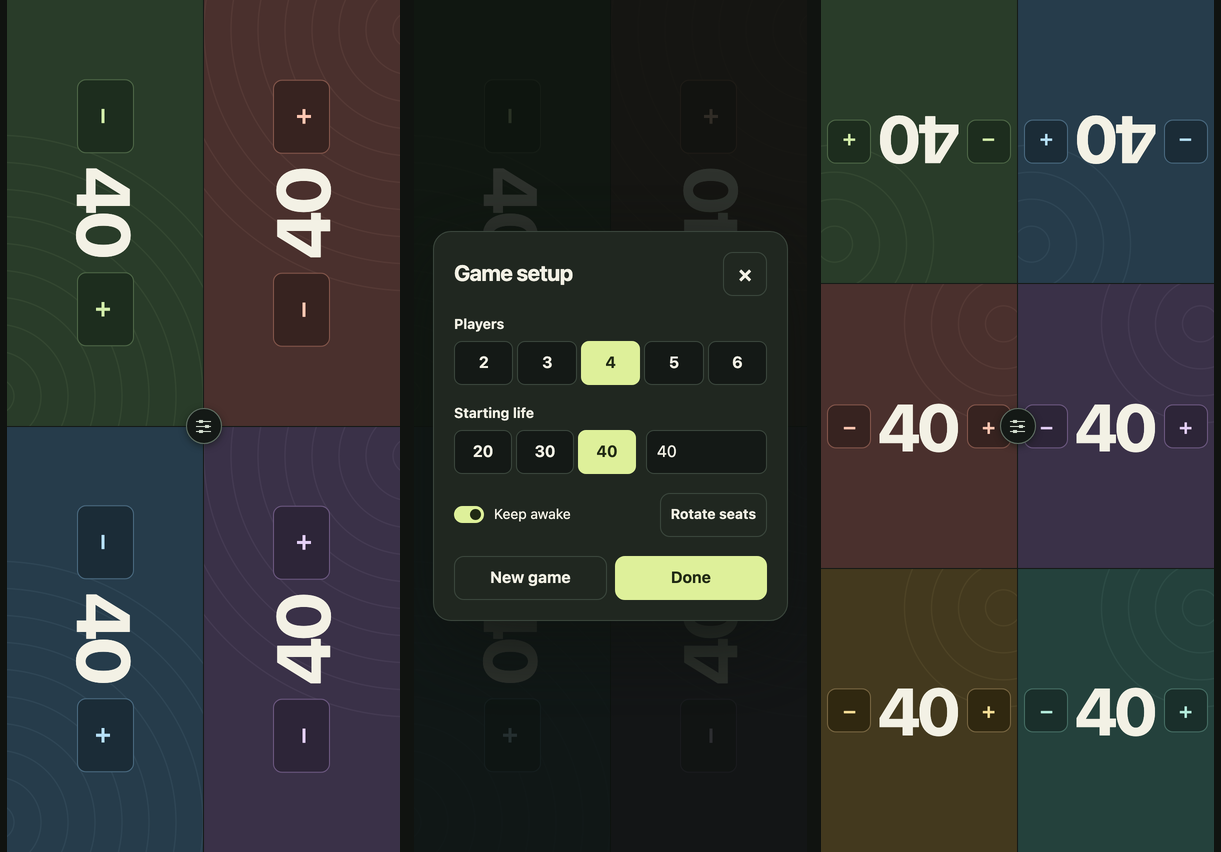
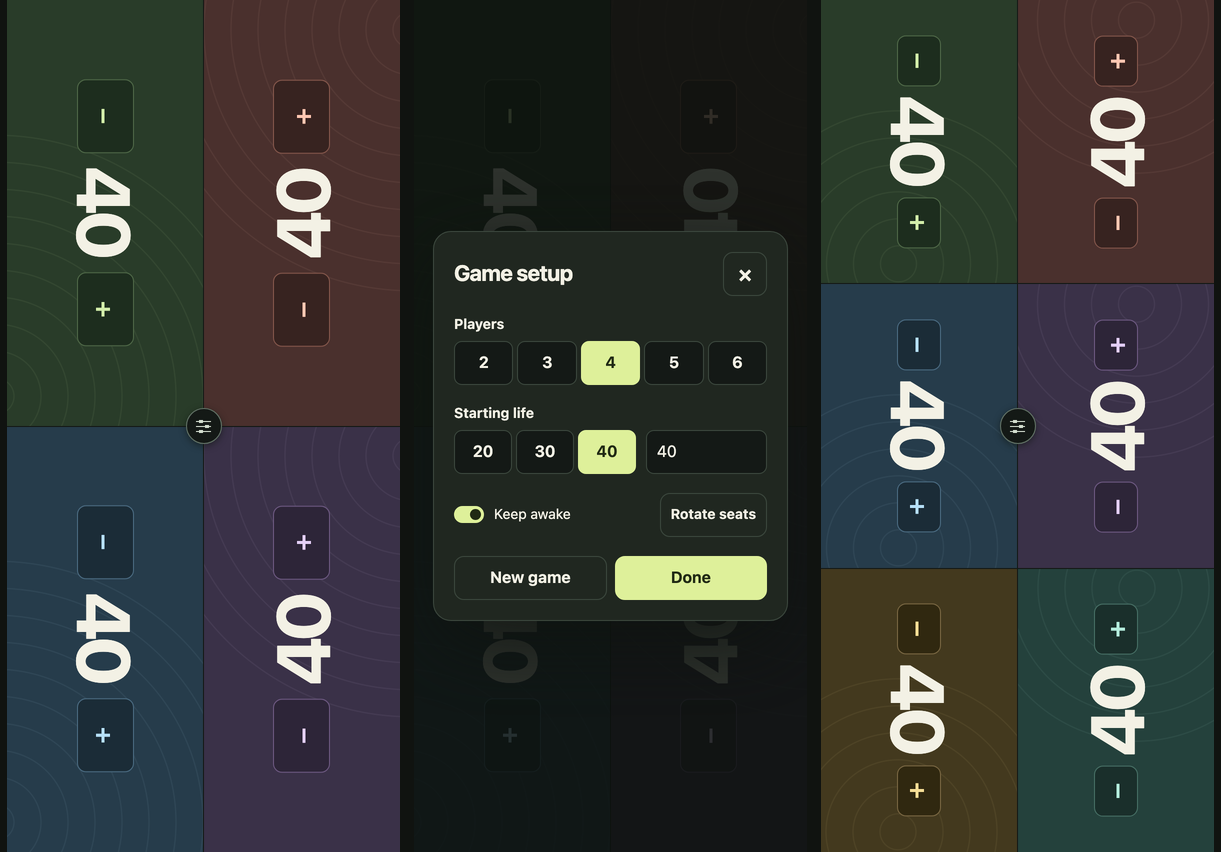
Use one layout for seat position and facing

diff --git a/web/app.js b/web/app.js
@@ -17,14 +17,30 @@ const lifeError = document.querySelector('#life-error');
 const restart = document.querySelector('#restart');
 const landscape = matchMedia('(orientation: landscape)');
 const clockwiseEdges = ['bottom', 'left', 'top', 'right'];
-const seatEdges = {
-  2: [['top', 'bottom'], ['left', 'right']],
-  3: [['top', 'top', 'bottom'], ['top', 'bottom', 'right']],
-  4: [['left', 'left', 'right', 'right'], ['top', 'top', 'bottom', 'bottom']],
-  5: [['top', 'top', 'bottom', 'bottom', 'bottom'], ['top', 'top', 'bottom', 'bottom', 'right']],
-  6: [['top', 'top', 'bottom', 'bottom', 'bottom', 'bottom'], ['top', 'top', 'top', 'bottom', 'bottom', 'bottom']],
+// Each row lists seats by facing edge and player number. Repeated seats span cells.
+const seatLayouts = {
+  2: {
+    portrait: ['top-1', 'bottom-2'],
+    landscape: ['left-1 right-2'],
+  },
+  3: {
+    portrait: ['top-1 top-2', 'bottom-3 bottom-3'],
+    landscape: ['top-1 right-3', 'bottom-2 right-3'],
+  },
+  4: {
+    portrait: ['left-1 right-3', 'left-2 right-4'],
+    landscape: ['top-1 top-2', 'bottom-3 bottom-4'],
+  },
+  5: {
+    portrait: ['top-1 top-2', 'bottom-3 bottom-4', 'bottom-5 bottom-5'],
+    landscape: ['top-1 top-2 right-5', 'bottom-3 bottom-4 right-5'],
+  },
+  6: {
+    portrait: ['left-1 right-3', 'left-2 right-4', 'left-5 right-6'],
+    landscape: ['top-1 top-2 top-5', 'bottom-3 bottom-4 bottom-6'],
+  },
 };
-const playerCounts = Object.keys(seatEdges).map(Number);
+const playerCounts = Object.keys(seatLayouts).map(Number);
 
 let game = loadGame();
 let selectedPlayerCount = game.scores.length;
@@ -135,12 +151,16 @@ function bindCounter(button, adjust, label) {
   });
 }
 
-function orientBoard() {
-  const [portraitEdges, landscapeEdges] = seatEdges[game.scores.length];
-  const edges = landscape.matches ? landscapeEdges : portraitEdges;
-  board.dataset.landscape = String(landscape.matches);
-  for (const [index, player] of Array.from(board.children).entries()) {
-    const turn = (clockwiseEdges.indexOf(edges[index]) + game.rotations[index]) % clockwiseEdges.length;
+function layoutBoard() {
+  const layout = seatLayouts[game.scores.length];
+  const rows = landscape.matches ? layout.landscape : layout.portrait;
+  board.style.gridTemplateAreas = rows.map(row => `"${row}"`).join(' ');
+  for (const seat of new Set(rows.join(' ').split(' '))) {
+    const [edge, number] = seat.split('-');
+    const index = Number(number) - 1;
+    const player = board.children[index];
+    const turn = (clockwiseEdges.indexOf(edge) + game.rotations[index]) % clockwiseEdges.length;
+    player.style.gridArea = seat;
     player.dataset.edge = clockwiseEdges[turn];
   }
 }
@@ -162,7 +182,6 @@ function setRotationMode(enabled) {
 
 function renderBoard() {
   stopRepeating();
-  board.dataset.count = game.scores.length;
   const players = game.scores.map((_, index) => {
     const player = playerTemplate.content.firstElementChild.cloneNode(true);
     const name = `Player ${index + 1}`;
@@ -189,14 +208,14 @@ function renderBoard() {
     rotateSeat.setAttribute('aria-label', `Rotate ${name} clockwise`);
     rotateSeat.addEventListener('click', () => {
       game.rotations[index] = (game.rotations[index] + 1) % clockwiseEdges.length;
-      orientBoard();
+      layoutBoard();
       saveGame();
     });
     renderScore();
     return player;
   });
   board.replaceChildren(...players);
-  orientBoard();
+  layoutBoard();
 }
 
 function startGame(playerCount, startingLife) {
@@ -318,7 +337,7 @@ document.addEventListener('visibilitychange', () => {
   if (document.hidden) stopRepeating();
   else if (!android && !ios) syncWakeLock();
 });
-landscape.addEventListener('change', orientBoard);
+landscape.addEventListener('change', layoutBoard);
 
 renderBoard();
 syncWakeLock();

diff --git a/web/styles.css b/web/styles.css
@@ -27,25 +27,11 @@ button:focus-visible, input:focus-visible { outline: 2px solid var(--accent); ou
 }
 
 .board {
-  --columns: 2;
-  --rows: 2;
   display: grid;
-  grid-template-columns: repeat(var(--columns), minmax(0, 1fr));
-  grid-template-rows: repeat(var(--rows), minmax(0, 1fr));
+  grid-auto-columns: minmax(0, 1fr);
+  grid-auto-rows: minmax(0, 1fr);
   gap: 1px;
   height: 100%;
-}
-.board[data-count="2"] { --columns: 1; }
-.board:where([data-count="5"], [data-count="6"]) { --rows: 3; }
-.board:where([data-count="3"], [data-count="5"]) .player:last-child { grid-column: 1 / -1; }
-.board[data-landscape="false"][data-count="4"] { grid-auto-flow: column; }
-
-.board[data-landscape="true"] { --rows: 2; }
-.board[data-landscape="true"][data-count="2"] { --columns: 2; --rows: 1; }
-.board[data-landscape="true"]:where([data-count="5"], [data-count="6"]) { --columns: 3; }
-.board[data-landscape="true"]:where([data-count="3"], [data-count="5"]) .player:last-child {
-  grid-column: -2 / -1;
-  grid-row: 1 / -1;
 }
 
 .setup-button {

diff --git a/README.md b/README.md
@@ -19,7 +19,7 @@ A fresh install opens with four players at 40 life. Tap **−** or **+** to adju
 
 <div align="center">
 <a href="screenshots/board.png"><img src="screenshots/board.png" width="180" alt="Four-player portrait board with two seats facing each long side" /></a>
-<a href="screenshots/six-players.png"><img src="screenshots/six-players.png" width="180" alt="Six-player board" /></a>
+<a href="screenshots/six-players.png"><img src="screenshots/six-players.png" width="180" alt="Six-player portrait board with three seats facing each long side" /></a>
 <a href="screenshots/setup.png"><img src="screenshots/setup.png" width="180" alt="Setup for player count, starting life, screen awake, and seat rotation" /></a>
 <br />
 <sub>Four players · Six players · Setup</sub>
@@ -35,7 +35,7 @@ A fresh install opens with four players at 40 life. Tap **−** or **+** to adju
 
 ## At the table
 
-Set the phone in the middle of the table. With four players, seats face the phone’s two long sides, with **−** and **+** on either side of each total. With three or five players, one seat spans two slots so the board still fills the screen.
+Set the phone in the middle of the table. With four or six players, two or three seats face each long side. With two players, the seats face opposite short ends. With three or five players, one seat spans two slots so the board still fills the screen. Each player reads **−** on the left and **+** on the right from their seat.
 
 Tap the sliders in the center to choose 2–6 players, set the starting life, restart, or toggle **Keep awake**. Changing the player count or starting life starts a new game. **Keep awake** is on by default. Scores and settings are saved between launches.
 
@@ -68,13 +68,15 @@ Open `web/index.html` to try the tracker on your computer. The preview uses brow
 
 Install ktlint and select full Xcode for `swift-format`. Then run `npm ci` and `npm run lint` from the project root. Run `npm run lint:web`, `npm run lint:android`, or `npm run lint:ios` to check one platform.
 
+Run `npx playwright-core install chromium webkit` and `npm test` to check each player count in portrait and landscape.
+
 ## Shared code
 
 `web/` contains the interface, seat layouts, rotations, scoring, and saved-game format. Android and iOS bundle those files directly. Their Kotlin and Swift wrappers handle native screen-awake behavior, local storage, and fullscreen presentation. Browser preview uses the equivalent browser APIs. App icons, build settings, and package metadata live in the platform projects.
 
 ## GitHub Actions
 
-[CI](.github/workflows/ci.yml) runs lint and builds for pull requests and pushes to `main`. Each successful run produces a static web ZIP, a debug-signed Android APK, and an iOS Simulator ZIP. CI also compiles the iPhone target with signing disabled.
+[CI](.github/workflows/ci.yml) runs lint, browser seating tests, and builds for pull requests and pushes to `main`. Each successful run produces a static web ZIP, a debug-signed Android APK, and an iOS Simulator ZIP. CI also compiles the iPhone target with signing disabled.
 
 ### Publish a signed alpha
 
